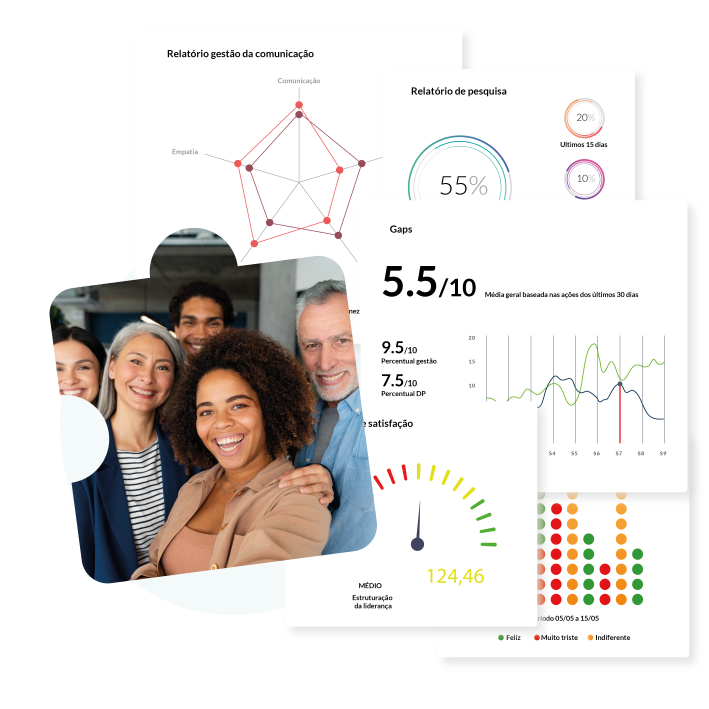
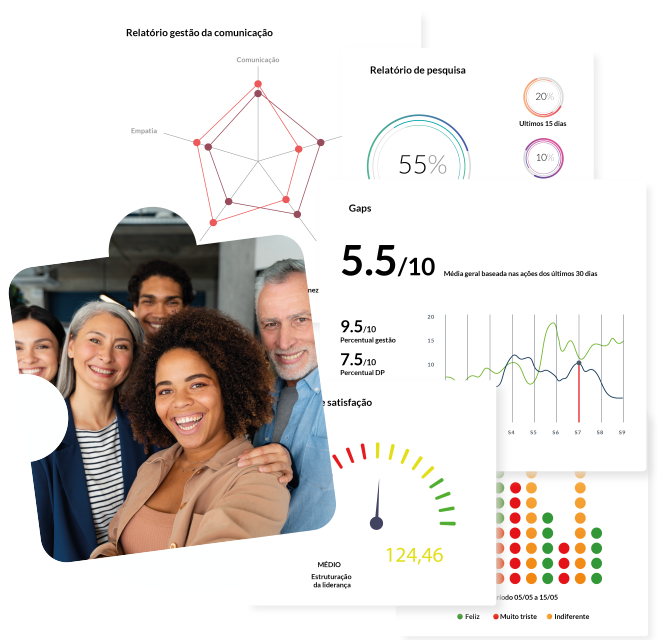
secao de relatorio + gamificacao (falta responsividade)

diff --git a/app/sections/DashboardsPreview.tsx b/app/sections/DashboardsPreview.tsx
@@ -2,13 +2,25 @@ import Image from "next/image";
 
 export default function DashboardPreviewSection() {
     return (
-        <div className="bg-voca-gray-200">
-            <div className="py-16 px-6 max-w-7xl m-auto flex justify-center">
-                <Image 
+        <div className="bg-gradient-to-b from-slate-600 to-slate-400">
+            <div className="py-16 px-6 max-w-7xl m-auto flex gap-8 justify-center">
+                <div className="text-slate-200">
+                    <h1 className="text-3xl font-semibold">Relatórios online e customizados </h1>
+                    <h3 className="text-xl mt-2">Somos os "waze" para as lideranças na empresa</h3>
+
+                    <div className="mt-10 flex flex-col gap-4">
+                        <p>- Compile os indicadores em tempo real</p>
+                        <p>- Tome decisões rápidas e assertivas por dados</p>
+                        <p>- Receba insights e sugestão de ação</p>
+                        <p>- Entenda o impacto das ações entre os times</p>
+                        <p>- Facilite a gestão contínua das emoções</p>
+                    </div>
+                </div>
+                <Image
                     src='/illustrations/dashboardsPreview.png'
                     alt="dashboards"
-                    width={700}
-                    height={700}
+                    width={400}
+                    height={400}
                 />
             </div>
 

diff --git a/app/sections/Gamification.tsx b/app/sections/Gamification.tsx
@@ -1,0 +1,30 @@
+import Image from "next/image";
+
+export default function Gamification() {
+    return (
+        <div className="bg-[#0e0e36] bg-gamification">
+            <div className="py-16 px-6 max-w-7xl m-auto flex gap-8 justify-center">
+                <Image
+                    src='/illustrations/gamification.png'
+                    alt="dashboards"
+                    width={450}
+                    height={450}
+                />
+
+                <div className="text-blue-50">
+                    <h1 className="text-3xl font-semibold">Uma experiência gamificada </h1>
+                    <h3 className="text-xl mt-2"></h3>
+
+                    <div className="mt-10 flex flex-col gap-4">
+                        <p>- Dissemine conhecimentos de forma fácil e prática</p>
+                        <p>- Engaje os colaboradores</p>
+                        <p>- Acumular moedas</p>
+                        <p>- Troque por recompensas incríveis </p>
+                    </div>
+                </div>
+
+            </div>
+
+        </div>
+    )
+}

diff --git a/app/page.tsx b/app/page.tsx
@@ -7,6 +7,7 @@ import KPIsSection from './sections/KPIs';
 import Functionalities from './sections/Functionalities';
 import OurClientsSection from './sections/OurClients';
 import TestimonialsSection from './sections/Testimonials';
+import Gamification from './sections/Gamification';
 
 const lexendFont = Lexend({ weight: ['200', '300', '400', '500', '600', '700'], subsets: ['latin'] })
 
@@ -21,7 +22,9 @@ export default function Home() {
 
       <Functionalities />
 
-      {/* <DashboardPreviewSection /> */}
+      <DashboardPreviewSection />
+
+      <Gamification />
 
       <OurClientsSection />
 

diff --git a/tailwind.config.js b/tailwind.config.js
@@ -37,7 +37,8 @@ module.exports = {
         'voca-blue': { 200: '#99C9CD'}
       },
       backgroundImage: {
-        'zig-zag': "url('/illustrations/zigzag.png')"
+        'zig-zag': "url('/illustrations/patterns/zigzag.png')",
+        'gamification': "url('/illustrations/patterns/gamification.png')"
       }
     },
   },
